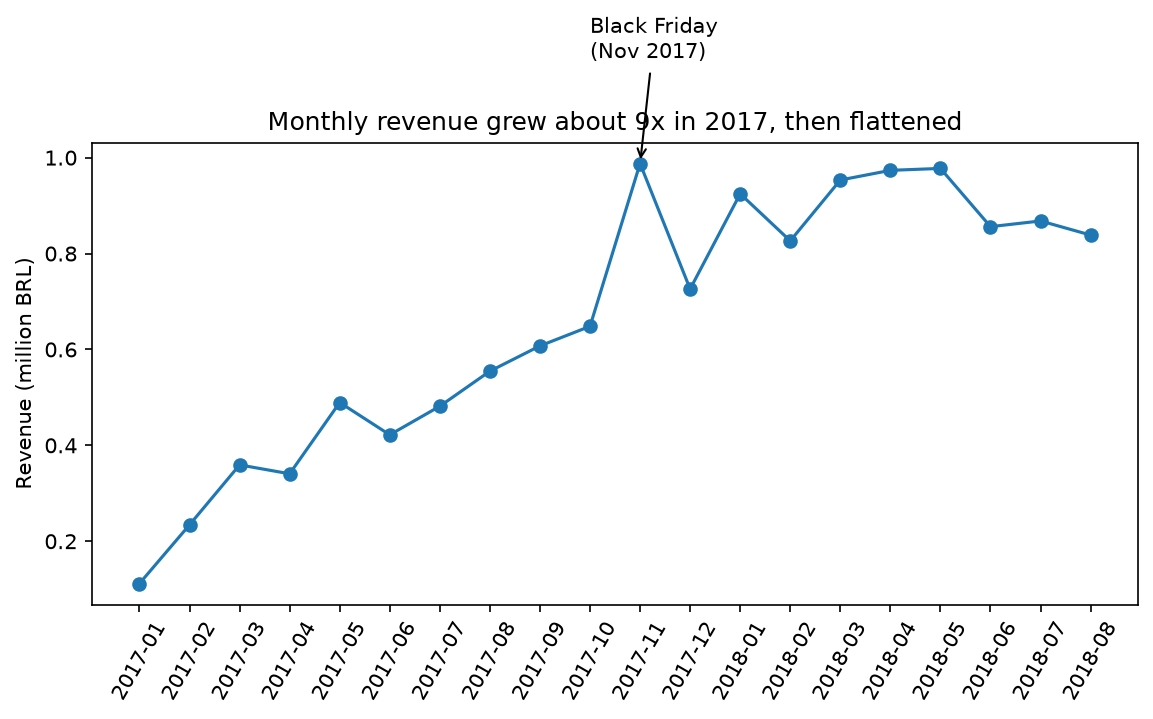
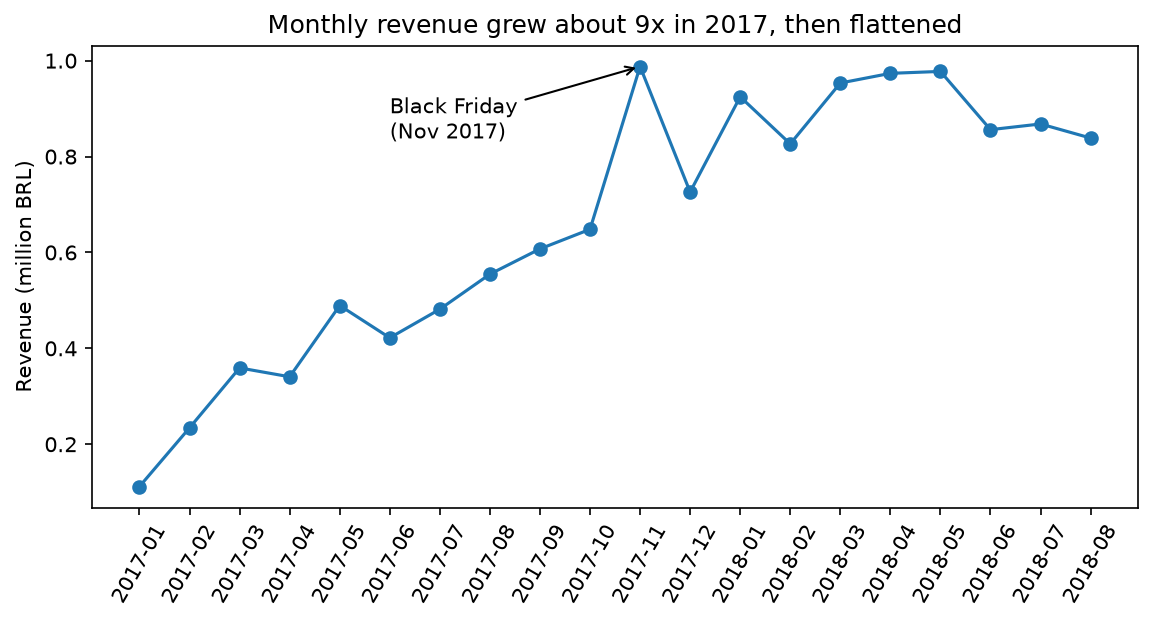
Tidy repo: requirements, notebook, README

diff --git a/README.md b/README.md
@@ -1,5 +1,7 @@
 # Olist E-commerce Analysis (SQL + Python)
 
+**Business summary:** [summary.md](summary.md) | **Notebook:** [analysis.ipynb](analysis.ipynb)
+
 ## Business problem
 I analysed about 100k orders from Olist, a Brazilian online marketplace (2016 to 2018),
 acting as a data analyst answering three questions from leadership:
@@ -111,6 +113,9 @@ SQL (SQLite), Python (pandas, matplotlib), Git/GitHub
 | `04_ranking.sql` | Ranking with PARTITION BY: top categories per year, top sellers per category |
 | `05_retention.sql` | Repeat customer rate, cohorts and the cohort retention table |
 | `06_delivery.sql` | Delivery performance and review scores  |
+| `analysis.ipynb` | pandas notebook: delivery analysis and the four README charts |
+| `summary.md` | One-page business summary with recommendations |
+| `charts/` | Chart images used in this README |
 
 ## How to reproduce
 1. Download the dataset "Brazilian E-Commerce Public Dataset by Olist" from Kaggle and place the
@@ -133,4 +138,3 @@ python load_data.py
 Dataset: "Brazilian E-Commerce Public Dataset by Olist" on Kaggle. The data is not included in
 this repo.
 
-*Work in progress: delivery analysis, charts and a one-page business summary are next.*
